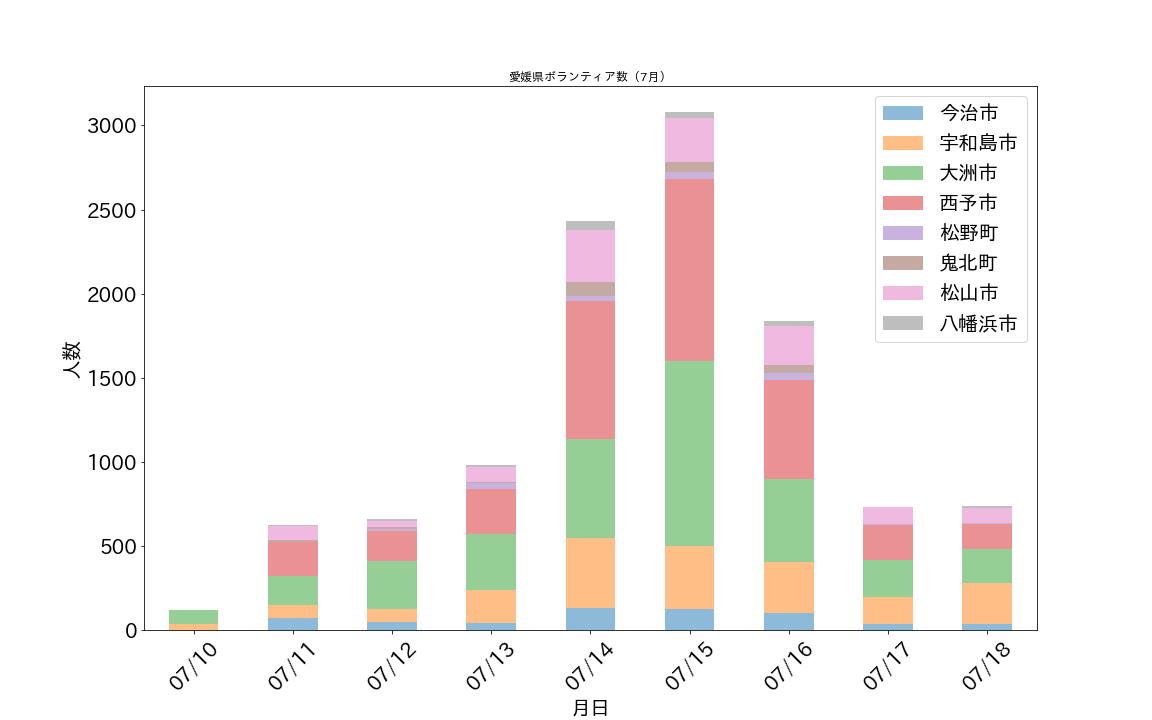
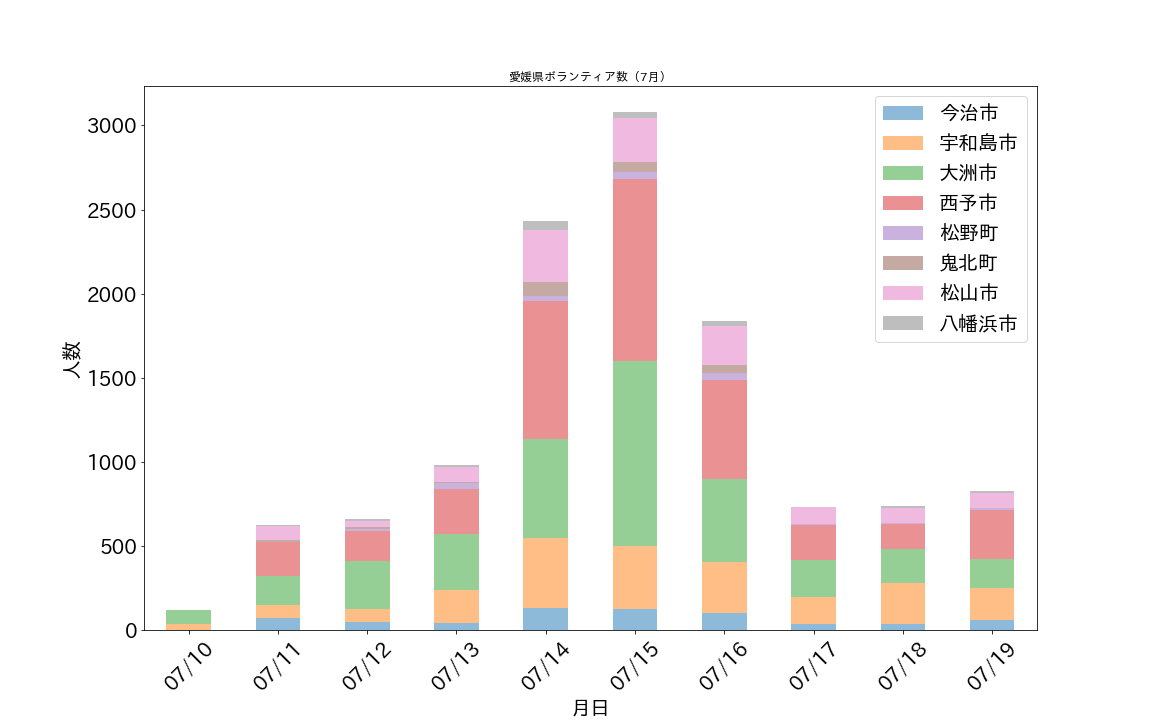
7/19 version updated

diff --git a/_pages/volunteer_aggregation.md b/_pages/volunteer_aggregation.md
@@ -1,11 +1,11 @@
 ---
-title: 【愛媛県ボランティア数集計（デイリー・地域別）（7/18版）】
+title: 【愛媛県ボランティア数集計（デイリー・地域別）（7/19版）】
 description: 松山市社協、八幡浜市社協、愛媛災害支援センターが公開しているデータを元に、ボランティア数のグラフを作成・公開しています。
 permalink: /volunteer/aggregation/
 date: 2018-07-18 05:59:06 +0900
-last_modified_at: 2018-07-19 10:59:55 +0900
+last_modified_at: 2018-07-20 01:32:58 +0900
 ---
-【7/19 松山社協様より7/11-13のデータを公開いただきました！】
+【7/19分のデータを更新】
 
 各社協、ボランティアセンターが公開している情報を元に、愛媛県内のボランティア数の一覧とグラフを公開しています。
 Google SpreadSheetによるデータは[こちら](https://docs.google.com/spreadsheets/d/1h-GFHoNa55P96wu_HNbPk899eN4HZcnu1T9q4eag8Uc/edit#gid=0)です。 [^1]
@@ -16,8 +16,8 @@ Google SpreadSheetによるデータは[こちら](https://docs.google.com/spre
 
 
 
-|    Date    | 今治市 | 宇和島市 | 大洲市 | 西予市 | 松野町 | 鬼北町 | 松山市 | 八幡浜市 |
-|:----------:|:------:|:--------:|:------:|:------:|:------:|:------:|:------:|:--------:|
+| Date       | 今治市 | 宇和島市 | 大洲市 | 西予市 | 松野町 | 鬼北町 | 松山市 | 八幡浜市 |
+|------------|--------|----------|--------|--------|--------|--------|--------|----------|
 | 2018-07-10 |        |       35 |     82 |        |        |        |        |          |
 | 2018-07-11 |     71 |       76 |    177 |    201 |        |      9 |     85 |        7 |
 | 2018-07-12 |     50 |       74 |    284 |    180 |     13 |     12 |     38 |        8 |
@@ -27,6 +27,7 @@ Google SpreadSheetによるデータは[こちら](https://docs.google.com/spre
 | 2018-07-16 |    102 |      305 |    491 |    591 |     37 |     50 |    232 |       29 |
 | 2018-07-17 |     37 |      157 |    222 |    210 |      4 |      3 |    100 |          |
 | 2018-07-18 |     37 |      241 |    205 |    149 |      4 |      0 |     88 |       14 |
+| 2018-07-19 |     58 |      190 |    174 |    294 |      8 |      0 |     89 |       14 |
 
 ### 元データ
 
